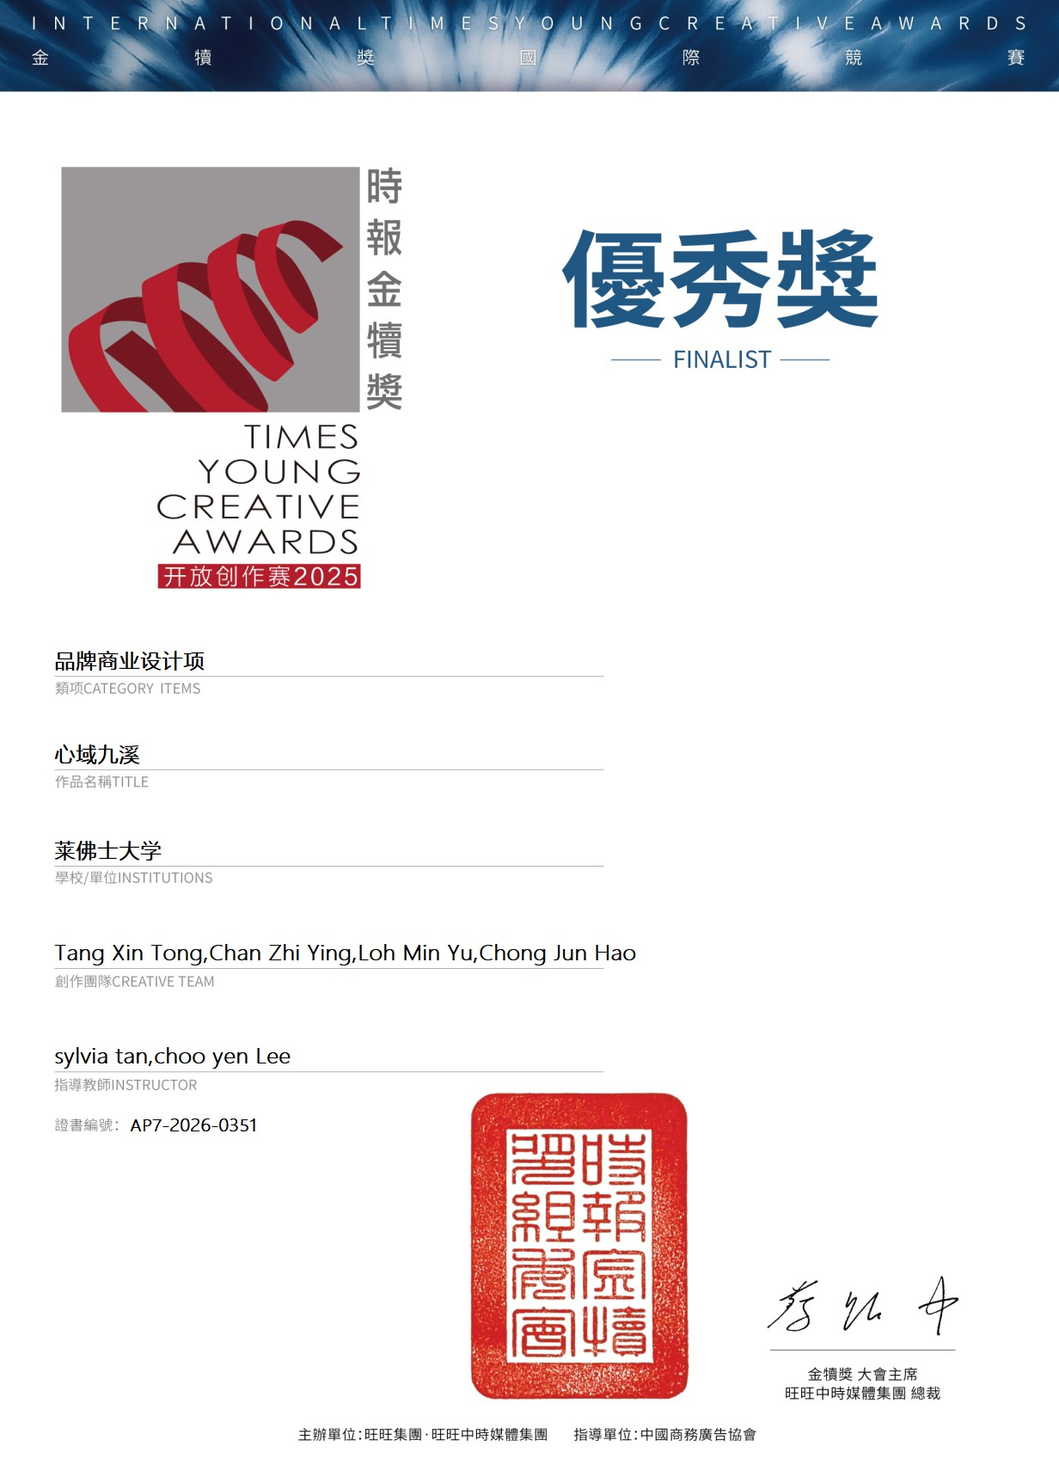
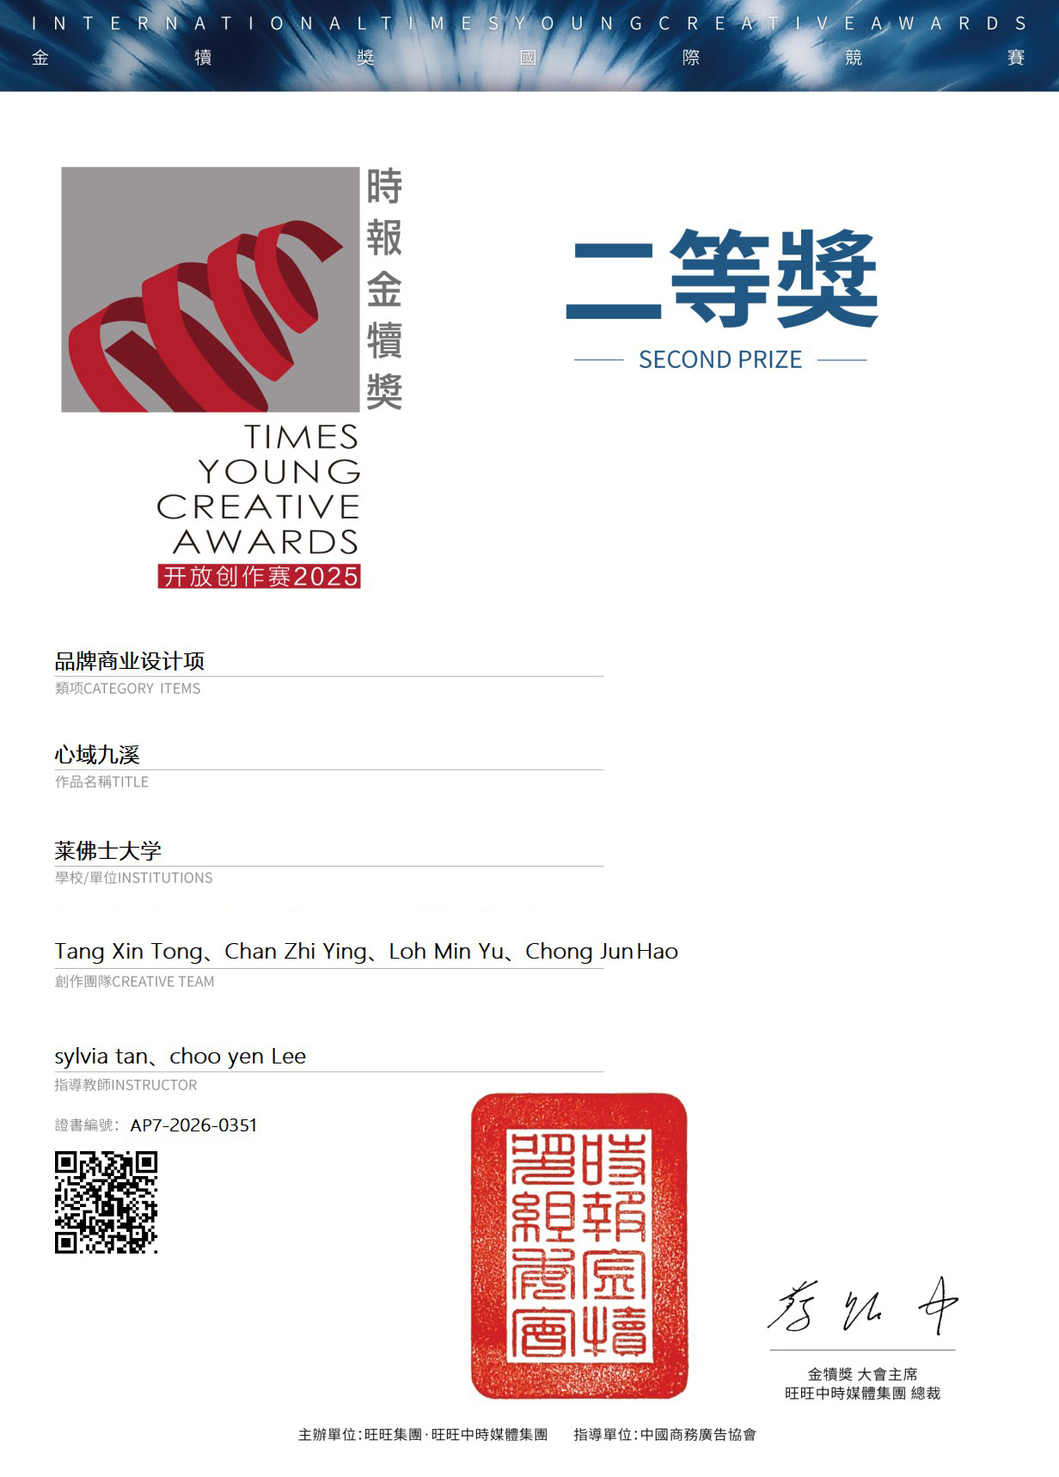
update

diff --git a/projects/nanao-ai-guide.html b/projects/nanao-ai-guide.html
@@ -11,8 +11,8 @@
   <link rel="preconnect" href="https://fonts.gstatic.com" crossorigin>
   <link href="https://fonts.googleapis.com/css2?family=DM+Mono:wght@400;500&family=DM+Sans:wght@400;500;600;700&family=Space+Grotesk:wght@400;500;600;700&display=swap" rel="stylesheet">
   <link rel="stylesheet" href="../assets/case-study.css">
-  <link rel="stylesheet" href="../assets/mindscape-case.css?v=4.7">
-  <script defer src="../assets/mindscape-case.js?v=4.7"></script>
+  <link rel="stylesheet" href="../assets/mindscape-case.css?v=4.8">
+  <script defer src="../assets/mindscape-case.js?v=4.8"></script>
 </head>
 <body class="mindscape-page">
   <div class="site-noise" aria-hidden="true"></div>
@@ -48,11 +48,11 @@
         <div><span>RECOGNITION</span><strong>Nan'ao Second Prize · DIGITEX Silver</strong></div>
       </div>
       <div class="m-metrics" aria-label="Project highlights">
-        <div><strong>06</strong><span>EMOTION CATEGORIES</span></div><div><strong>02</strong><span>FEATURED CERTIFICATES</span></div><div><strong>2025</strong><span>NAN'AO COMPETITION</span></div><div><strong>AI + UX</strong><span>CROSS-DISCIPLINARY PROJECT</span></div>
+        <div><strong>06</strong><span>EMOTION CATEGORIES</span></div><div><strong>04</strong><span>TIMES AWARDS CERTIFICATES</span></div><div><strong>2025</strong><span>NAN'AO COMPETITION</span></div><div><strong>AI + UX</strong><span>CROSS-DISCIPLINARY PROJECT</span></div>
       </div>
     </section>
     <nav class="m-subnav" aria-label="Case study sections">
-      <a href="#experience">01 / APP</a><a href="#demo">02 / DEMO</a><a href="#recognition">03 / AWARDS</a><a href="#idea">04 / THE IDEA</a><a href="#role">05 / MY ROLE</a><a href="#pipeline">06 / AI PIPELINE</a><a href="#features">07 / EXPERIENCE</a><a href="#stack">08 / TECH STACK</a><a href="#outcome">09 / OUTCOME</a>
+      <a href="#experience">01 / APP</a><a href="#demo">02 / DEMO</a><a href="#recognition">03 / AWARDS</a><a href="#idea">04 / THE IDEA</a><a href="#role">05 / MY ROLE</a><a href="#pipeline">06 / FEEDBACK &amp; AI</a><a href="#features">07 / EXPERIENCE</a><a href="#stack">08 / TECH STACK</a><a href="#outcome">09 / OUTCOME</a>
     </nav>
 
     <section class="m-section" id="experience">
@@ -85,15 +85,22 @@
         <figure class="m-media m-exhibition" data-media="exhibition" data-alt="MindScape Travel exhibition booth or competition presentation photo"><div class="m-fallback"><span>EVENT DOCUMENTATION / PHOTO</span><strong>THE REAL<br>EXHIBITION.</strong><small>ADD EXHIBITION.JPG</small></div><figcaption>Exhibition / competition project presentation</figcaption></figure>
         <div class="m-award-proof">
           <figure class="m-media m-cert" data-media="digitex-silver" data-fit="contain" data-alt="MindScape Travel DIGITEX 2026 Silver Award certificate"><div class="m-fallback"><span>CERTIFICATE / 2026</span><strong>DIGITEX<br>SILVER.</strong><small>ADD DIGITEX-SILVER.PNG</small></div><figcaption>DIGITEX 2026 / Silver Award · UTM</figcaption></figure>
-          <figure class="m-media m-cert" data-media="times-young-creative" data-fit="contain" data-alt="Times Young Creative Awards 2025 Second Prize certificate"><div class="m-fallback"><span>CERTIFICATE / 2025</span><strong>TIMES YOUNG<br>CREATIVE.</strong><small>ADD TIMES-YOUNG-CREATIVE.PNG</small></div><figcaption>Times Young Creative Awards 2025 / Second Prize</figcaption></figure>
+          <figure class="m-media m-cert" data-media="times-young-creative" data-fit="contain" data-alt="Times Young Creative Awards 2025 Second Prize certificate for Brand Commercial Design"><div class="m-fallback"><span>CERTIFICATE / 2025</span><strong>TIMES YOUNG<br>CREATIVE.</strong><small>ADD TIMES-YOUNG-CREATIVE.PNG</small></div><figcaption>Times Young Creative Awards / Second Prize · Brand Commercial Design</figcaption></figure>
         </div>
       </div>
+      <div class="m-gallery-intro m-times-intro"><span>TIMES YOUNG CREATIVE AWARDS / 2025</span><span>THREE FINALIST CERTIFICATES · CLICK TO ENLARGE</span></div>
+      <div class="m-times-gallery" aria-label="Three Times Young Creative Awards finalist certificates">
+        <figure class="m-media m-times-cert" data-media="times-finalist-brand" data-fit="contain" data-alt="Finalist certificate in Brand Commercial Design for 心域九溪"><div class="m-fallback"><span>2025 / FINALIST</span><strong>BRAND DESIGN.</strong><small>CERTIFICATE / BRAND COMMERCIAL DESIGN</small></div><figcaption>Finalist · Brand Commercial Design</figcaption></figure>
+        <figure class="m-media m-times-cert" data-media="times-finalist-future" data-fit="contain" data-alt="Finalist certificate in Future Innovative Design for 心域九溪"><div class="m-fallback"><span>2025 / FINALIST</span><strong>FUTURE DESIGN.</strong><small>CERTIFICATE / FUTURE INNOVATIVE DESIGN</small></div><figcaption>Finalist · Future Innovative Design</figcaption></figure>
+        <figure class="m-media m-times-cert" data-media="times-finalist-digital" data-fit="contain" data-alt="Finalist certificate in Digital Media Innovation for 心域九溪"><div class="m-fallback"><span>2025 / FINALIST</span><strong>DIGITAL MEDIA.</strong><small>CERTIFICATE / DIGITAL MEDIA INNOVATION</small></div><figcaption>Finalist · Digital Media Innovation</figcaption></figure>
+      </div>
+      <p class="m-caption m-times-note">All four certificates refer to the same university team project, <em>心域九溪</em>. The Brand Commercial Design category received both a Finalist certificate and a Second Prize certificate; the Second Prize is reported as the highest result in that category.</p>
       <div class="m-award-list">
         <div><span>2025 / CHINA</span><strong>Second Prize · Nan'ao County “Rural Operator” Competition</strong><small>Rural Cultural &amp; Creative Track</small></div>
         <div><span>2026 / UTM</span><strong>Silver Award · DIGITEX 2026</strong><small>Digital Innovation &amp; Technology Exhibition · 15 June 2026</small></div>
         <div><span>2026 / DESIGN</span><strong>Silver Winner · Indigo Design Award</strong><small>Branding for AI in Branding</small></div>
         <div><span>2025 / DESIGN</span><strong>Merit Award · Kancil Awards</strong><small>Idea: Digital Experience</small></div>
-        <div><span>2025 / DESIGN</span><strong>Second Prize · Times Young Creative Awards</strong><small>Brand Commercial Design · 心域九溪; Finalist in Digital Media Innovation &amp; Future Innovative Design</small></div>
+        <div><span>2025 / DESIGN</span><strong>Second Prize · Times Young Creative Awards</strong><small>Brand Commercial Design / 心域九溪 · Finalist certificates also issued in Brand Commercial Design, Future Innovative Design and Digital Media Innovation</small></div>
       </div>
     </section>
 
@@ -107,12 +114,15 @@
       <div><b>05</b><p><strong>Tested and demonstrated</strong><span>Supported prototyping, debugging, project presentations and competition demonstrations.</span></p></div>
     </div></div></section>
 
-    <section class="m-section" id="pipeline"><div class="m-split-header"><div><span class="m-index">06 / SENTIMENT ANALYSIS WORKFLOW</span><h2>From words<br>to <em>feelings.</em></h2></div><p>The project poster describes a BERT-tokenization and Softmax-based classification workflow. AI-assisted sentiment analysis was part of the project work, but these app screenshots do not document model outputs; the detailed pipeline is presented as the documented design rather than a benchmarked deployment.</p></div>
-      <div class="m-pipeline" aria-label="Documented emotion analysis process">
-        <div><small>STEP 01</small><strong>TRAVELER TEXT</strong><span>Written feedback &amp; reflection</span></div><i aria-hidden="true">→</i><div><small>STEP 02</small><strong>PREPROCESS</strong><span>Clean &amp; normalize</span></div><i aria-hidden="true">→</i><div><small>STEP 03</small><strong>BERT TOKENIZE</strong><span>Tokenize, pad &amp; truncate</span></div><i aria-hidden="true">→</i><div><small>STEP 04</small><strong>CLASSIFY</strong><span>Softmax probability output</span></div><i aria-hidden="true">→</i><div><small>STEP 05</small><strong>EMOTION</strong><span>Six possible categories</span></div>
+    <section class="m-section" id="pipeline">
+      <div class="m-split-header"><div><span class="m-index">06 / FEEDBACK &amp; AI INTEGRATION</span><h2>Turning feedback<br>into <em>insight.</em></h2></div><p>My AI-related contribution involved working with traveler feedback and sentiment analysis as part of the prototype. This overview focuses on my application and integration work rather than presenting an unverified model benchmark.</p></div>
+      <div class="m-feedback-flow" aria-label="Simplified feedback and sentiment analysis workflow">
+        <article><small>01 / INPUT</small><h3>Traveler feedback</h3><p>Collect written travel reflections through the application workflow.</p></article>
+        <article><small>02 / PROCESS</small><h3>Prepare the text</h3><p>Handle and preprocess user text for AI-assisted interpretation.</p></article>
+        <article><small>03 / INTEGRATE</small><h3>Emotion-related insight</h3><p>Work with sentiment information to support the project's personalized journey concept.</p></article>
       </div>
-      <p class="m-pipeline-note">DOCUMENTED PROJECT PIPELINE · Not a claim of a separately benchmarked or deployed BERT model. No quantitative classification accuracy is asserted.</p>
-      <div class="m-emotions"><span>THE SIX EMOTIONAL CATEGORIES</span><div><b>✺ JOY</b><b>♡ LOVE</b><b>✷ ANGER</b><b>◌ FEAR</b><b>◒ SADNESS</b><b>✦ SURPRISE</b></div></div>
+      <p class="m-pipeline-note">PROTOTYPE WORKFLOW · This summary describes feedback processing and application integration. No model performance metric is claimed.</p>
+      <div class="m-emotions"><span>EMOTION LABELS IN THE PROJECT CONCEPT</span><div><b>✺ JOY</b><b>♡ LOVE</b><b>✷ ANGER</b><b>◌ FEAR</b><b>◒ SADNESS</b><b>✦ SURPRISE</b></div></div>
     </section>
 
     <section class="m-section" id="features"><span class="m-index">07 / EXPERIENCE &amp; PRODUCT VISION</span><h2>Memories, made<br><em>meaningful.</em></h2>
@@ -127,7 +137,7 @@
     </section>
 
     <section class="m-section" id="stack"><div class="m-split-header"><div><span class="m-index">08 / TECHNICAL STACK</span><h2>The work<br><em>behind it.</em></h2></div><p>My technical contribution focused on application programming, feedback processing, system integration and AI-based sentiment analysis within a design-led team.</p></div>
-      <div class="m-stack"><div><small>01 / APPLICATION</small><h3>Web &amp; Backend</h3><p><b>PHP</b><b>Python</b><b>HTML5</b><b>CSS3</b><b>SQL</b><b>JSON</b></p></div><div><small>02 / AI &amp; NLP</small><h3>Sentiment Analysis</h3><p><b>NLP</b><b>Text Preprocessing</b><b>Emotion Classification</b><b>BERT Tokenization (Pipeline)</b><b>Softmax (Pipeline)</b></p></div><div><small>03 / INTEGRATION</small><h3>Digital Experience</h3><p><b>User Feedback Processing</b><b>Data Integration</b><b>Interactive Prototyping</b><b>UI Implementation</b><b>Cross-Disciplinary Collaboration</b></p></div></div>
+      <div class="m-stack"><div><small>01 / APPLICATION</small><h3>Web &amp; Backend</h3><p><b>PHP</b><b>Python</b><b>HTML5</b><b>CSS3</b><b>SQL</b><b>JSON</b></p></div><div><small>02 / FEEDBACK &amp; ANALYSIS</small><h3>AI-Assisted Feedback</h3><p><b>Sentiment Analysis</b><b>Text Processing</b><b>Python Integration</b><b>User Feedback Workflow</b></p></div><div><small>03 / INTEGRATION</small><h3>Digital Experience</h3><p><b>User Feedback Processing</b><b>Data Integration</b><b>Interactive Prototyping</b><b>UI Implementation</b><b>Cross-Disciplinary Collaboration</b></p></div></div>
     </section>
 
     <section class="m-section m-outcome" id="outcome"><div><span class="m-index">09 / PROJECT OUTCOME</span><h2>A different way<br><em>to remember.</em></h2><p>The completed prototype demonstrated how a web application and AI-assisted text analysis could connect with a design-led vision of emotional tourism. Presenting it across competitions strengthened my practical experience in application development, AI integration, iterative prototyping, and working with graphic designers.</p></div><div class="m-outcome-card"><span>PROJECT TAKEAWAY / MINDScape Travel</span><blockquote>The most memorable part of a journey is not always the destination. Sometimes, it is how the place made you feel.</blockquote><small>Application Development · Sentiment Analysis · Team Collaboration</small></div></section>

diff --git a/check-mindscape.html b/check-mindscape.html
@@ -1,7 +1,7 @@
 <!doctype html><html lang="zh-CN"><head><meta charset="utf-8"><meta name="viewport" content="width=device-width,initial-scale=1"><title>MindScape Media Check · JH Portfolio</title><style>
 :root{color-scheme:dark}*{box-sizing:border-box}body{margin:0;padding:30px 5vw;background:#0b0a12;color:#f3edff;font:14px/1.65 system-ui,sans-serif}main{max-width:1150px;margin:auto}h1{font-size:clamp(27px,4vw,43px);letter-spacing:-.045em}p{color:#aaa2bb}a{color:#c7a9ff}table{width:100%;border-collapse:collapse}th,td{padding:14px 10px;text-align:left;border-bottom:1px solid #ffffff23;overflow-wrap:anywhere}th{font-size:12px;color:#bda4ee}.ok{color:#8af2c9}.no{color:#ffa1aa}.pending{color:#e6cdb1}.note{border:1px solid #ffffff21;border-radius:8px;padding:14px 17px;margin:15px 0 25px;background:#ffffff08}td a{white-space:nowrap}img{max-width:100%;max-height:60px}@media(max-width:640px){table{font-size:11px}th,td{padding:11px 5px}body{padding:16px}}
-</style></head><body><main><a href="projects/nanao-ai-guide.html">← BACK TO CASE STUDY</a><h1>MindScape Travel / 素材检查</h1><p>真正验证浏览器加载和解码图片，不是仅用 HTTP 200 判断。需要将文件实际上传到 GitHub Pages。</p><div class="note">V4.7 已附带 7 张图片：4 张真实 App 截图，以及勇气／心灵／灵感 3 张视觉图。其余可选素材：<code>cover.png</code>、<code>app-01.png</code> 至 <code>app-04.jpeg</code>（实际扩展名按文件检查）、<code>exhibition.jpg</code>、<code>digitex-silver.png</code>、<code>times-young-creative.png</code>。视频为 <code>demo.mp4</code>。缺少可选素材不代表网站部署失败。</div><table><thead><tr><th>素材</th><th>浏览器读取</th><th>格式</th><th>打开文件</th></tr></thead><tbody id="rows"></tbody></table></main><script>
-const list=[['封面','cover'],['App 截图 01','app-01'],['App 截图 02','app-02'],['App 截图 03','app-03'],['App 截图 04','app-04'],['插画 · 心灵','visual-spirit'],['插画 · 灵感','visual-inspiration'],['展览照片','exhibition'],['DIGITEX 银奖','digitex-silver'],['Times Young Creative Awards','times-young-creative']];const roots='assets/media/nanao/';const formats=['png','jpg','jpeg','webp'];const tb=document.querySelector('#rows');
-function check(name,title){const tr=document.createElement('tr');const a=document.createElement('td');a.textContent=title+' ('+name+')';const status=document.createElement('td');status.className='pending';status.textContent='检测中…';const ext=document.createElement('td');ext.textContent='—';const link=document.createElement('td');link.textContent='—';tr.append(a,status,ext,link);tb.append(tr);let i=0;function attempt(){if(i>=formats.length){status.className='no';status.textContent='NOT FOUND / 无法解码';return}const f=formats[i++];const url=roots+name+'.'+f;const img=new Image();img.onload=()=>{if(!img.naturalWidth){attempt();return}status.className='ok';status.textContent='FOUND / 可显示';ext.textContent=f;const anchor=document.createElement('a');anchor.href=url;anchor.target='_blank';anchor.rel='noopener';anchor.textContent='打开';link.replaceChildren(anchor)};img.onerror=attempt;img.src=url+'?t=47';}attempt()}
+</style></head><body><main><a href="projects/nanao-ai-guide.html">← BACK TO CASE STUDY</a><h1>MindScape Travel / 素材检查</h1><p>真正验证浏览器加载和解码图片，不是仅用 HTTP 200 判断。需要将文件实际上传到 GitHub Pages。</p><div class="note">V4.8 已附带 7 张应用与视觉图片、4 张 Times Young Creative Awards 证书：4 张真实 App 截图，以及勇气／心灵／灵感 3 张视觉图。其余可选素材：<code>cover.png</code>、<code>app-01.png</code> 至 <code>app-04.jpeg</code>（实际扩展名按文件检查）、<code>exhibition.jpg</code>、<code>digitex-silver.png</code>、<code>times-young-creative.png</code>。视频为 <code>demo.mp4</code>。缺少可选素材不代表网站部署失败。</div><table><thead><tr><th>素材</th><th>浏览器读取</th><th>格式</th><th>打开文件</th></tr></thead><tbody id="rows"></tbody></table></main><script>
+const list=[['封面','cover'],['App 截图 01','app-01'],['App 截图 02','app-02'],['App 截图 03','app-03'],['App 截图 04','app-04'],['插画 · 心灵','visual-spirit'],['插画 · 灵感','visual-inspiration'],['展览照片','exhibition'],['DIGITEX 银奖','digitex-silver'],['Times Young / Second Prize · Brand Commercial Design','times-young-creative'],['Times Young / Finalist · Brand Commercial Design','times-finalist-brand'],['Times Young / Finalist · Future Innovative Design','times-finalist-future'],['Times Young / Finalist · Digital Media Innovation','times-finalist-digital']];const roots='assets/media/nanao/';const formats=['png','jpg','jpeg','webp'];const tb=document.querySelector('#rows');
+function check(name,title){const tr=document.createElement('tr');const a=document.createElement('td');a.textContent=title+' ('+name+')';const status=document.createElement('td');status.className='pending';status.textContent='检测中…';const ext=document.createElement('td');ext.textContent='—';const link=document.createElement('td');link.textContent='—';tr.append(a,status,ext,link);tb.append(tr);let i=0;function attempt(){if(i>=formats.length){status.className='no';status.textContent='NOT FOUND / 无法解码';return}const f=formats[i++];const url=roots+name+'.'+f;const img=new Image();img.onload=()=>{if(!img.naturalWidth){attempt();return}status.className='ok';status.textContent='FOUND / 可显示';ext.textContent=f;const anchor=document.createElement('a');anchor.href=url;anchor.target='_blank';anchor.rel='noopener';anchor.textContent='打开';link.replaceChildren(anchor)};img.onerror=attempt;img.src=url+'?t=48';}attempt()}
 list.forEach(([title,name])=>check(name,title));const tr=document.createElement('tr');tr.innerHTML='<td>Demo Video (demo.mp4)</td><td class="pending" id="videoStatus">检测中…</td><td>mp4</td><td id="videoLink">—</td>';tb.append(tr);const v=document.createElement('video');v.preload='metadata';v.addEventListener('loadedmetadata',()=>{const e=document.getElementById('videoStatus');e.textContent='FOUND / 可播放';e.className='ok';const a=document.createElement('a');a.href=roots+'demo.mp4';a.textContent='打开';document.getElementById('videoLink').replaceChildren(a)},{once:true});v.addEventListener('error',()=>{const e=document.getElementById('videoStatus');e.textContent='NOT FOUND / 不支持';e.className='no'},{once:true});v.src=roots+'demo.mp4';
 </script></body></html>

diff --git a/assets/portfolio-data.js b/assets/portfolio-data.js
@@ -56,14 +56,14 @@ window.JH_CONTENT = {
       challenge: 'Conventional tourism applications emphasize destinations and itineraries but often overlook how travelers feel and the memories they associate with places.',
       approach: 'Built web application interfaces and supporting backend flows with PHP, Python, HTML, CSS, JSON and SQL. Integrated feedback collection and AI-assisted sentiment processing while working with Graphic Design students on the creative direction.',
       contribution: 'Application Developer & AI Sentiment Analysis Developer. Responsible for implementation, user feedback processing, integration, debugging and technical demonstrations within a cross-disciplinary student team.',
-      result: 'Nan’ao County 2025 Rural Operator Competition Second Prize; DIGITEX 2026 Silver Award; Indigo Design Award 2026 Silver Winner; Kancil Awards 2025 Merit; Times Young Creative Awards 2025 Second Prize (team recognition).',
+      result: 'Nan’ao County 2025 Rural Operator Competition Second Prize; DIGITEX 2026 Silver Award; Indigo Design Award 2026 Silver Winner; Kancil Awards 2025 Merit; Times Young Creative Awards 2025 Second Prize in Brand Commercial Design, with Finalist certificates in Future Innovative Design and Digital Media Innovation (team recognition).',
       process: [
         ['01','Application prototype','Developed the web application and integrated user input with backend data processing.'],
         ['02','Sentiment analysis','Worked on AI-assisted interpretation of written reflections; the project documentation describes a six-category emotion pipeline.'],
         ['03','Creative collaboration','Connected the technical prototype to design concepts and prepared exhibition and competition demonstrations.']
       ],
       tags:['PHP','Python','SQL','NLP','Sentiment Analysis','Emotion Classification','UI Implementation','Team Collaboration'],
-      note:'BERT tokenization and Softmax belong to the documented project pipeline. The Memory Canvas, AI artwork and souvenir extensions are presented as experience and future concepts, not fully validated production features.',
+      note:'Sentiment analysis was part of the application prototype. The Memory Canvas, AI artwork and souvenir extensions are presented as experience and future concepts, not fully validated production features.',
       media:{cover:'assets/media/nanao/cover.png',screen1:'assets/media/nanao/app-01.png',screen2:'assets/media/nanao/app-02.png',video:'assets/media/nanao/demo.mp4'}
     }
   }

diff --git a/assets/mindscape-case.css b/assets/mindscape-case.css
@@ -44,3 +44,20 @@
   .m-cover{height:275px}
 }
 @media(max-width:350px){.m-app-grid{grid-template-columns:repeat(2,minmax(0,1fr))}.m-app-shot{height:255px}.m-visual-shot{flex-basis:82vw}}
+
+/* V4.8 — evidence-led Times Young Awards gallery & simplified feedback section */
+.m-times-intro{margin-top:34px;margin-bottom:15px}
+.m-times-gallery{display:grid;grid-template-columns:repeat(3,minmax(0,1fr));gap:14px}
+.m-times-cert{height:clamp(320px,36vw,490px)}
+.m-times-cert>img{background:#11101b;object-fit:contain;padding:8px}
+.m-times-cert .m-fallback strong{font-size:clamp(24px,3vw,38px)}
+.m-times-cert figcaption{max-width:calc(100% - 24px);font-size:11px}
+.m-times-note{margin:16px 0 0;color:#bdb0cd}
+.m-feedback-flow{display:grid;grid-template-columns:repeat(3,minmax(0,1fr));gap:14px}
+.m-feedback-flow article{min-width:0;min-height:200px;background:linear-gradient(160deg,#242035,#12111d);border:1px solid #ffffff28;border-radius:12px;padding:26px;display:flex;flex-direction:column}
+.m-feedback-flow small{color:#c9aff6;font:500 11px 'DM Mono',monospace}
+.m-feedback-flow h3{font:600 clamp(20px,2.1vw,27px)/1.2 'Space Grotesk',sans-serif;letter-spacing:-.045em;margin:27px 0 12px}
+.m-feedback-flow p{font-size:14px;line-height:1.65;margin:0}
+@media(max-width:850px){.m-times-gallery{gap:10px}.m-times-cert{height:335px}.m-feedback-flow article{padding:20px;min-height:200px}}
+@media(max-width:620px){.m-times-gallery{grid-template-columns:1fr;gap:13px}.m-times-cert{height:390px}.m-times-cert figcaption{font-size:11px}.m-feedback-flow{grid-template-columns:1fr;gap:10px}.m-feedback-flow article{min-height:0;padding:19px}.m-feedback-flow h3{margin:12px 0 8px;font-size:23px}.m-feedback-flow p{font-size:14px}.m-times-intro{margin-top:27px}}
+@media(max-width:360px){.m-times-cert{height:335px}}

diff --git a/assets/mindscape-case.js b/assets/mindscape-case.js
@@ -11,6 +11,9 @@
     'exhibition':['exhibition','event','exhibition-photo'],
     'digitex-silver':['digitex-silver','award-silver','digitex-certificate'],
     'times-young-creative':['times-young-creative','times-award','times-certificate'],
+    'times-finalist-brand':['times-finalist-brand'],
+    'times-finalist-future':['times-finalist-future'],
+    'times-finalist-digital':['times-finalist-digital'],
     'visual-spirit':['visual-spirit'],
     'visual-inspiration':['visual-inspiration']
   };
